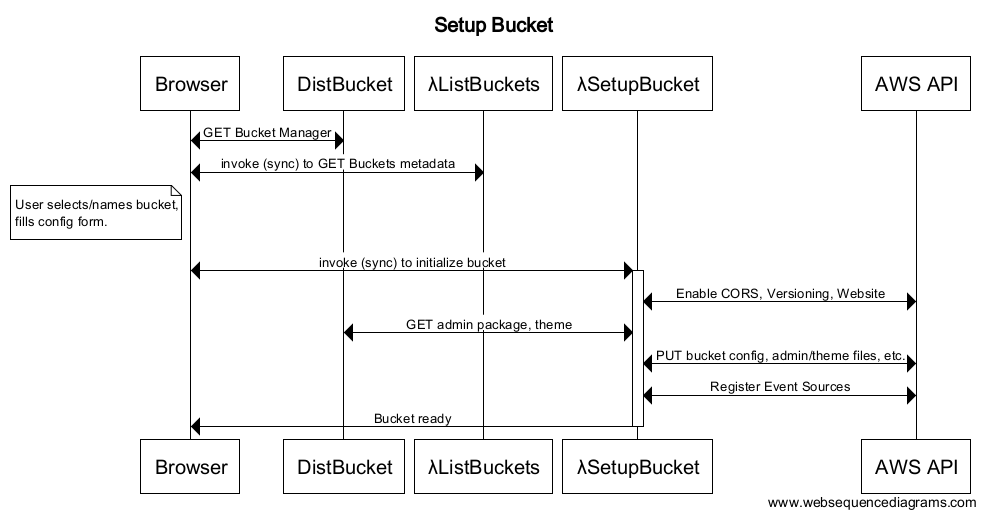
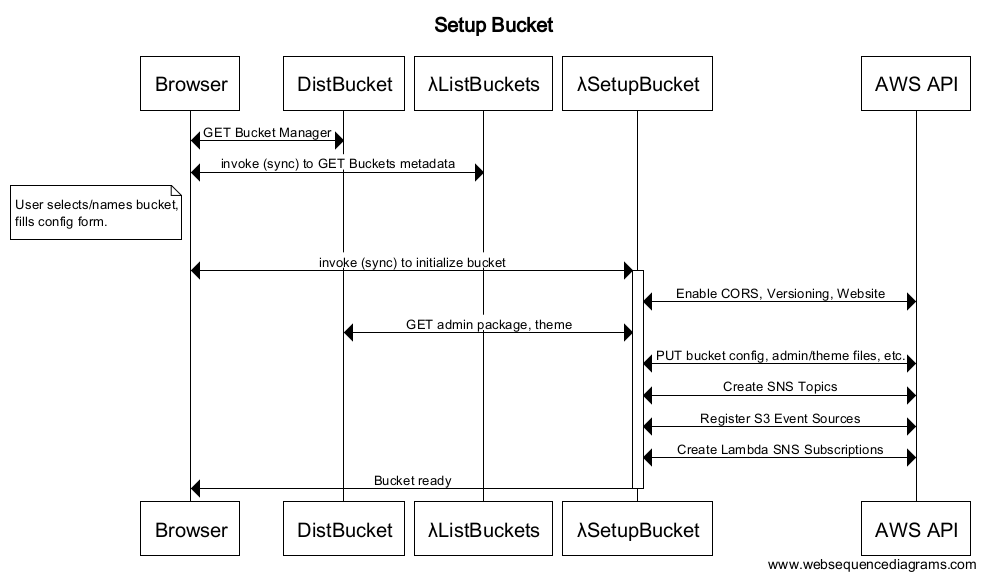
update architecture, bucket setup flow

diff --git a/content/architecture-process.md b/content/architecture-process.md
@@ -14,8 +14,8 @@ Here are some down-to-earth principles used in Blue Bucket's design:
   component of the system should have only one task, and should perform that
   task very well. Also known as the [Single Responsibility Principle][].
 * The file system is the canonical repository. Every artifact of the site is
-  stored in, or derived from, flat files. An end
-  user should be able to reproduce the entire system given the repository.
+  stored in, or derived from, flat files. An end user should be able to
+  reproduce the entire system given the repository.
 
 These are our values, the outcomes we desire from our architecture:
 
@@ -60,9 +60,9 @@ the picture.
 
 An **archetype** is the canonical representation of an item in our archive.
 Archetypes are stored as JSON files in a dedicated subdirectory. An archetype
-contains metadata about the item, and pointers to all its assets. Archetypes are
-the key assets of the Blue Bucket system, and their manipulation drives many of
-the processes, as explained below.
+contains metadata about the item, and (usually) pointers to all its assets.
+Archetypes are the key assets of the Blue Bucket system, and their manipulation
+drives many of the processes, as explained below.
 
 A **template** is a file used to perform transformation of an archetype into an
 artifact.
@@ -88,12 +88,12 @@ store structured data about our content as well as unstructured content itself,
 and 2) we want a format that will be easily usable by our client JavaScript
 applications.
 
-Archetypes are kept in their own directory, organized by the *item class,* and
+Archetypes are kept in their own directory, organized by *item class,* and
 have a `.json` extension. This makes it easy to create S3 event sources that
 target only Archetypes. 
 
 There is a fixed set of supported item classes, as depicted in the diagram. They
-are:
+are (alphabetically):
 
 * Article: a text/html item intended to be displayed as a stand-alone web page.
 * Audio: an audio item.
@@ -106,8 +106,8 @@ are:
 * Video: a video item stored locally (third party videos should be Embeds).
 
 When an Archetype is saved or deleted, S3 sends an event message to a Topic in
-the Simple Notification Service. Each item class has two topics that can be
-monitored, one for Save events, and one for Delete events.
+the Simple Notification Service (SNS). Each item class has two topics that can
+be monitored, one for Save events, and one for Delete events.
 
 Software agents called Scribes (AWS Lambda functions) subscribe to these events
 and are notified when something in the archive changes. The Scribe will then
@@ -154,50 +154,86 @@ A prototypical workflow for internal curators would be:
 - S3 sends a message to the SNS Topic BBonAddImage and BBonDeleteDraftImage.
 
 Notice that the publishing tools are cleanly separated from the rest of the
-system. A Curator interacts with the Archive through simple APIs and JSON files.
+system. A Curator interacts with the Archive through simple APIs and files.
 In the same way that a typical website management tool allows you to install
 plugins, Blue Bucket allows pluggable administration tools as well. The major
 work of the system is driven by events triggered after the curator's
 interactions.
 
-### Indexes
+### Indexes and Index Subsets
 
-Aside from data storage, another useful function of a database is to create
-indexes over all the objects in your archive. Indexes are quite useful when you
-want to create ordered collections, or to search and filter your collections to
-find specific content.
+Internally, agents in the Blue Bucket system *could* discover all the content
+available in the archive by listing the files. However, there are several
+disadvantages to using this method for content discovery.
 
-However, just like web pages, indexes can be pre-generated at publish time and
-stored in the archive in a static file (in fact, that's how databases work
-internally). Blue Bucket does exactly that, storing our indexes as JSON files,
-and making them available to our JavaScript clients just like the rest of our
-data.
+* File listings are always sorted lexically (alphabetically) by key, but the
+  most common sort need on the web is reverse chronological.
+* S3 ListObjects calls are as expensive as writes in terms of financial costs,
+  whereas reads are much cheaper.
+* S3 ListObjects calls can only return a fixed set of object metadata. Custom
+  metadata is not returned, nor can the contents of the object be returned.
+  These data must be retrieved separately.
+* S3 allows subsets of listings based only on key prefix. Often, it is desirable to
+  define subsets that are not based on the key prefix.
+* S3 ListObjects calls are not permitted at the website endpoint, so basic
+  JavaScript clients cannot access them.
+
+To address these concerns, Blue Bucket generates indexes to catalog all the
+content in the archive, and stores those indexes as JSON files in the archive
+itself.
 
 Software agents called Indexers subscribe to the SNS add & delete topics for
 each item class. Whenever an archetype is written, the Indexer receives a
-message, and updates the appropriate index files in the bucket.
+message, and updates the appropriate index files in the bucket. 
 
-In publishing operations with very large archives, these index files could grow
-quite large, which may result in performance problems for clients. Future
-versions of Blue Bucket will resolve this issue by sharding the index;
-that is, by splitting the index across more than one file, in such a way that
-clients will typically require access to only a small number of shards.
+There is a separate index for each item class, sorted reverse chronological by
+updated date. 
 
-(Technical side note: I experimentally created an index of 40,000 items,
-equivalent of a blog that posted 10 times a day for 10 years. This resulted in
-an index file of about 10MB uncompressed. Updates to this index took about 2.5
-seconds, which is still well within the usable range for such a blog. However,
-clients needing access to the index might have difficulty grabbing such a large
-file, especially mobile clients.)
+The index records stored in the indexes provide a set of metadata designed
+for typical use cases, including metadata that has been extracted from the
+content of the archetype files, so many common use cases will be able to make do
+with the index record alone, without having to fetch details for individual
+assets.
 
-In deployments with a very high publishing velocity (periods of publishing
-more than one item per second) the index files may become a
-bottleneck, because more than one Lambda function may be trying to update them
-at once. In future versions, Blue Bucket may introduce the option to use
-DynamoDB or an SQL database to manage indexes and deal with write contention. In
-that case, the JSON index files would be rebuilt on a schedule, perhaps once a
-minute, resulting in some publishing latency. However, real life usage is likely
-not to hit these limits in the near term.
+Indexes are paginated to improve performance for large archives. Each page
+contains a pointer to the previous and next page in the index (assuming one
+exists). Clients can traverse the entire index if necessary, but the common use
+case of "most recent X" should be satisfied with the first page.
+
+The indexes are publicly readable, and so can be used by public JavaScript
+clients without AWS API keys, as well as internal agents. (Note: to support
+private drafts, drafts are indexed in a separate file that is not publicly
+readable.)
+
+The financial cost of producing these indexes is the same as performing a single
+ListObjects call. Reading the index is ~14% of the cost of calling ListObjects.
+So as long as you are using it more than once per write, you're saving money.
+But in practice, producing the same results without a saved index would require
+many, many calls to list and retrieve objects, so the comparison is unfair.
+
+In addition to the main indexes, a site configuration can define index subsets
+to be created by the Indexers. An index subset is is a filtered version of the
+index such that each subset contains only items that fit specific criteria. For
+example, it is common to create an index subset based on category, creating one
+JSON file for "category=Technology" and another for "category=Humor". Another
+common use is to create subsets by author. Index subsets are always based on
+some metadata field found in the archetype.
+
+Although the system does not (currently) place any constraints on the fields
+that can be used as the basis for an index subset, to achieve good performance a
+site owner should take care to create subsets only on metadata fields that have
+a constrained number of values. Creating subsets based on a "tags" field, for
+example, would likely create a huge number of files, which would be expensive
+and of limited utility. 
+
+Like the main indexes, index subsets are constrained to contain items of the
+same item class. Site owners may need to declare the same subset on multiple
+classes, for example if they want a per author file for Articles, Audio, Images,
+and Video.
+
+Index subsets take the place of the simplest and most common database queries
+that a dynamic CMS would make. In future versions we will add mechanisms for
+performing more complex query operations.
 
 ## Example Workflows
 
@@ -244,14 +280,24 @@ The bucket initializer can run on any domain anywhere. I’ll host one publicly.
 
 ![Sequence Diagram: Setup a Bucket](images/SetupBucket.png)
 
-- Browser invokes Lambda BBListBuckets to retrieve buckets metadata and Display the BUCKET MANAGEMENT FORM. NOTE: Version 0.1 does not support initializing non-empty buckets. Metadata returned must include whether bucket is empty.
-- User selects or names a bucket to initialize (and create if it does not already exist). NOTE: Version 0.1 does not support initializing non-empty buckets.
-- Browser client displays a BUCKET CONFIG FORM for some common configuration options to generate bluebucket.json.
+- Browser invokes Lambda BBListBuckets to retrieve buckets metadata and Display
+  the BUCKET MANAGEMENT FORM. NOTE: Version 0.1 does not support initializing
+  non-empty buckets. Metadata returned must include whether bucket is empty.
+- User selects or names a bucket to initialize (and create if it does not
+  already exist). NOTE: Version 0.1 does not support initializing non-empty
+  buckets.
+- Browser client displays a BUCKET CONFIG FORM for some common configuration
+  options to generate bluebucket.json.
 - Browser client invokes (sync) Lambda BBSetupBucket with bucket and config.
-- BBSetupBucket retrieves the zip files for admin and theme from the public distribution bucket.
-- BBSetupBucket installs the directory skeleton, admin files, and generated bluebucket.json, into selected bucket.
-- BBSetupBucket registers S3 Event Sources for BB Lambdas. (NOTE: This is a call to S3 API, not Lambda.)
-- JS will redirect you to the admin section of your new blue bucket. You must enter your creds again because of cross-domain security.
+- BBSetupBucket retrieves the zip files for admin and theme from the public
+  distribution bucket.
+- BBSetupBucket installs the directory skeleton, admin files, and generated
+  bluebucket.json, into selected bucket.
+- BBSetupBucket creates any SNS Topics needed for this bucket.
+- BBSetupBucket connects S3 Event Sources to the SNS Topics.
+- BBSetupBucket subscribes configured Lambda functions to the SNS Topics.
+- JS will redirect you to the admin section of your new blue bucket. You must
+  enter your creds again because of cross-domain security.
 
 ### Updating Blue Bucket software in existing installation
 
